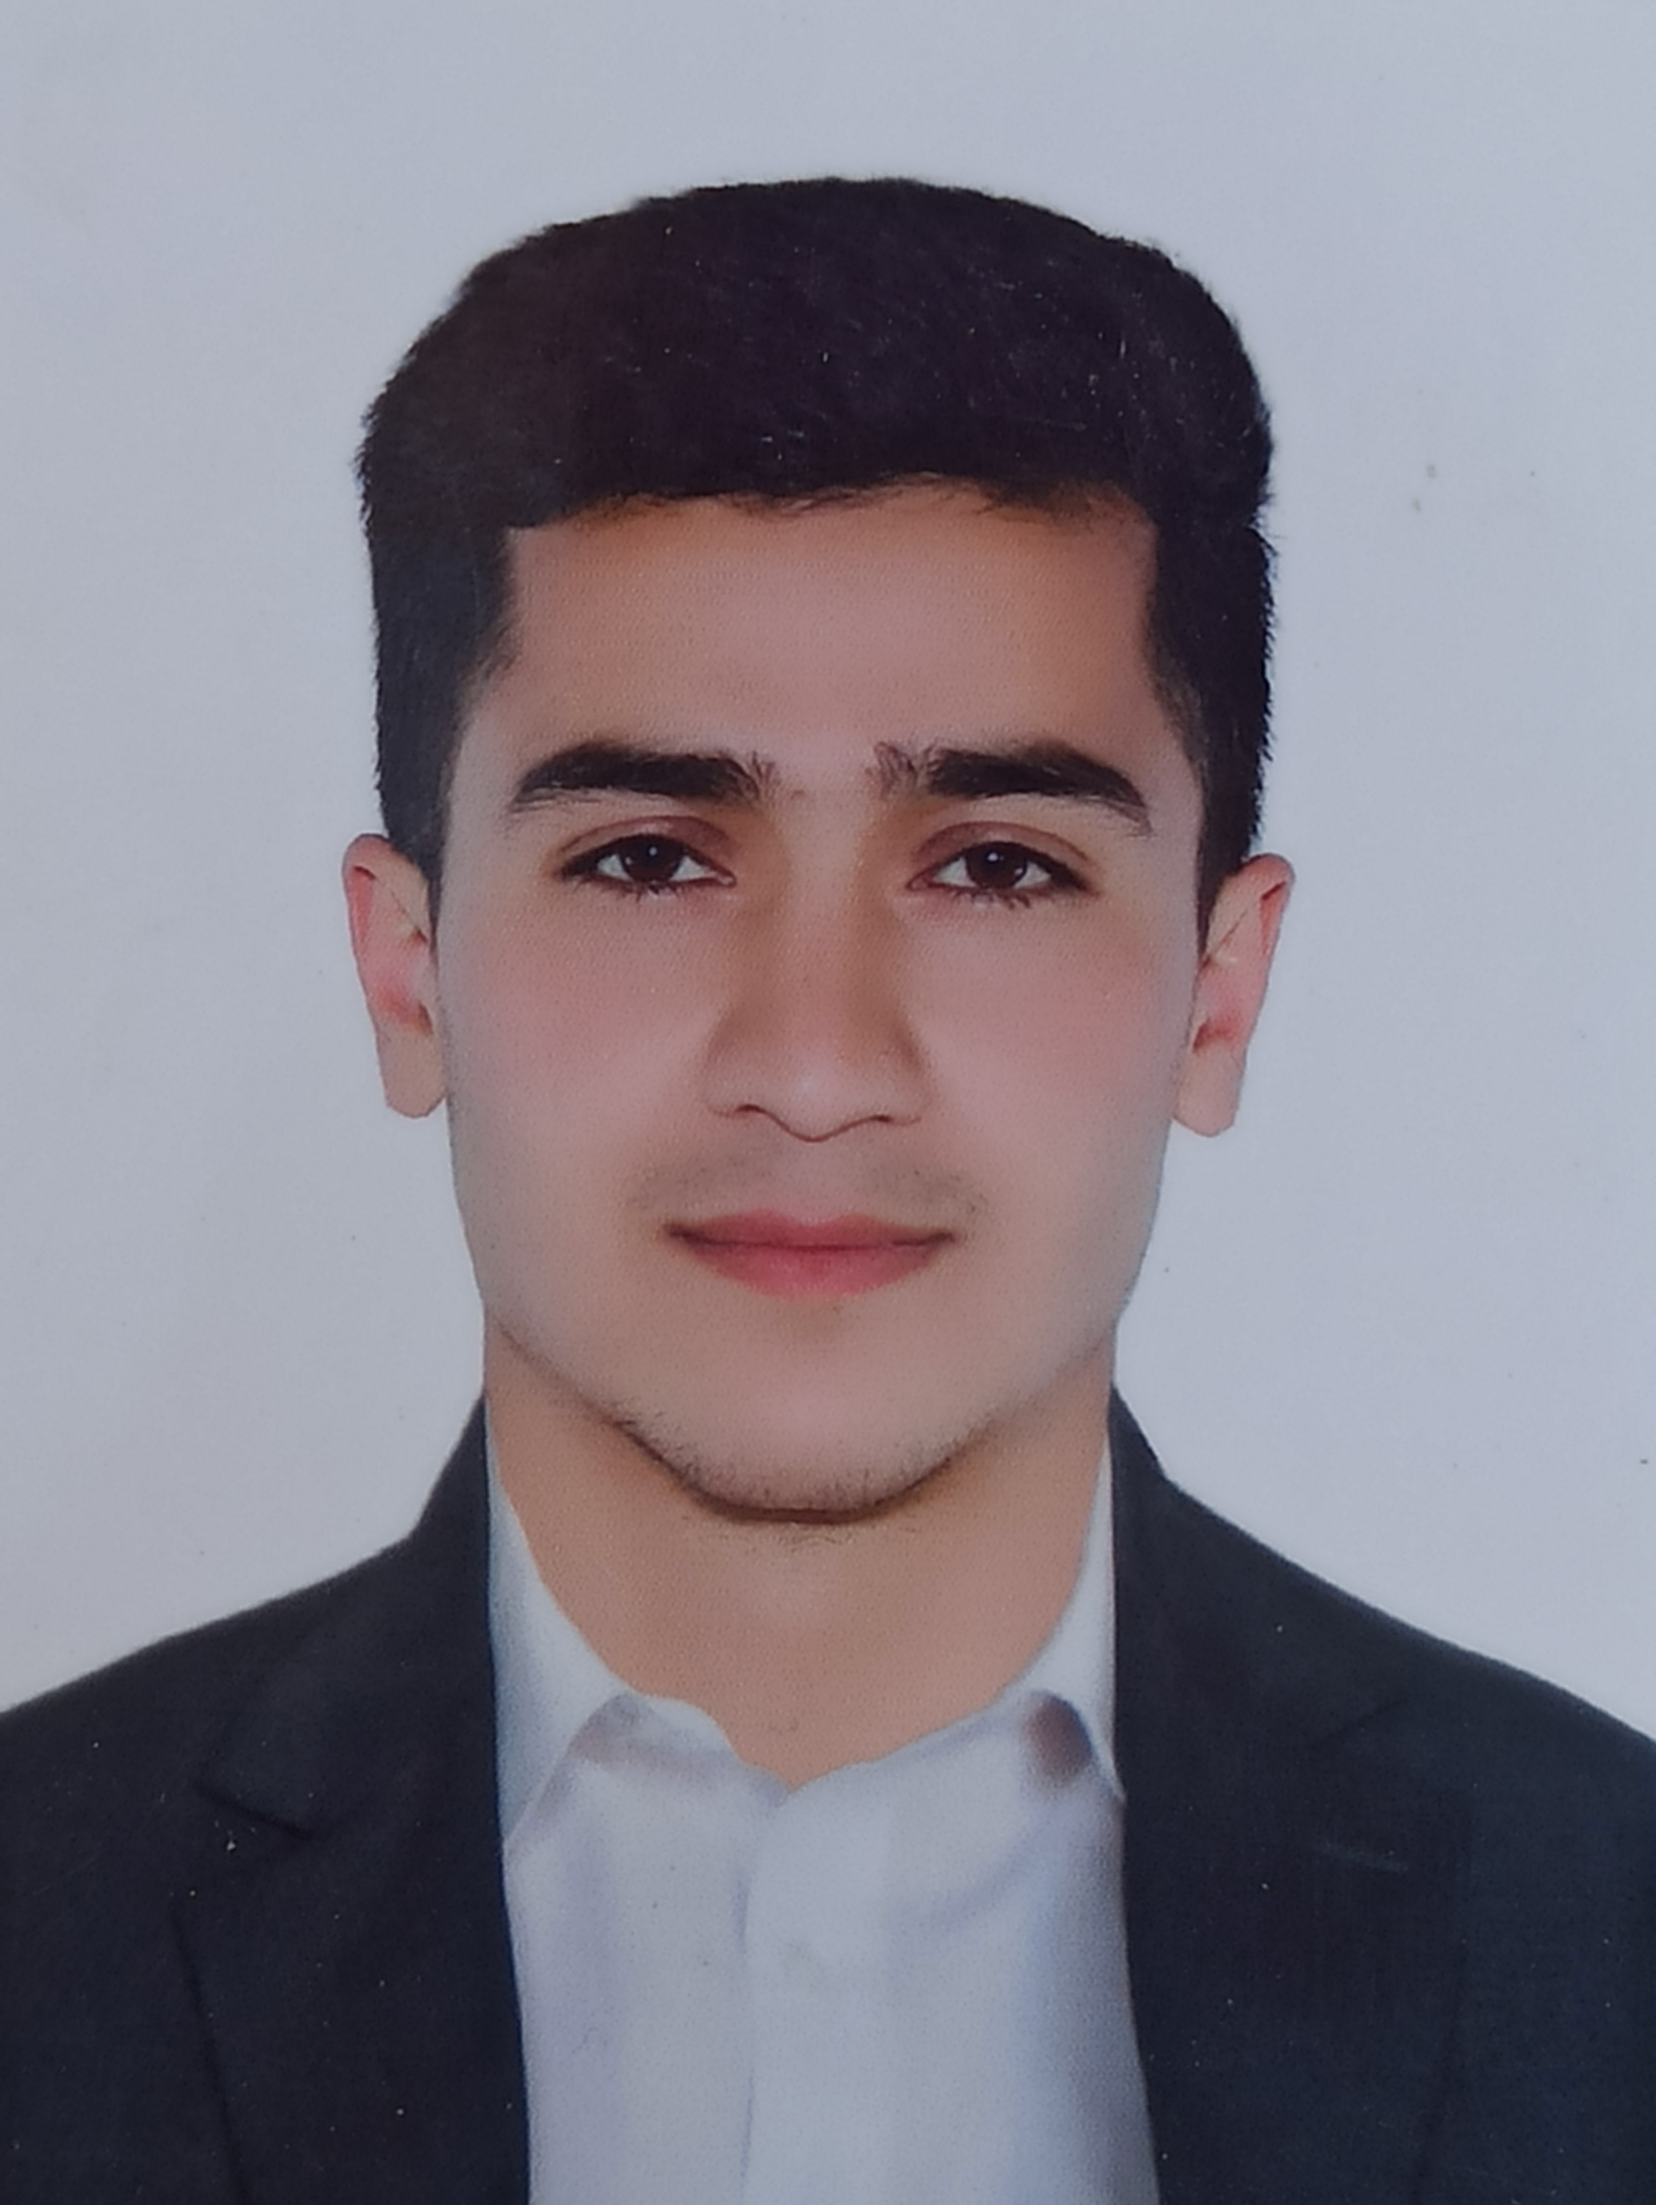
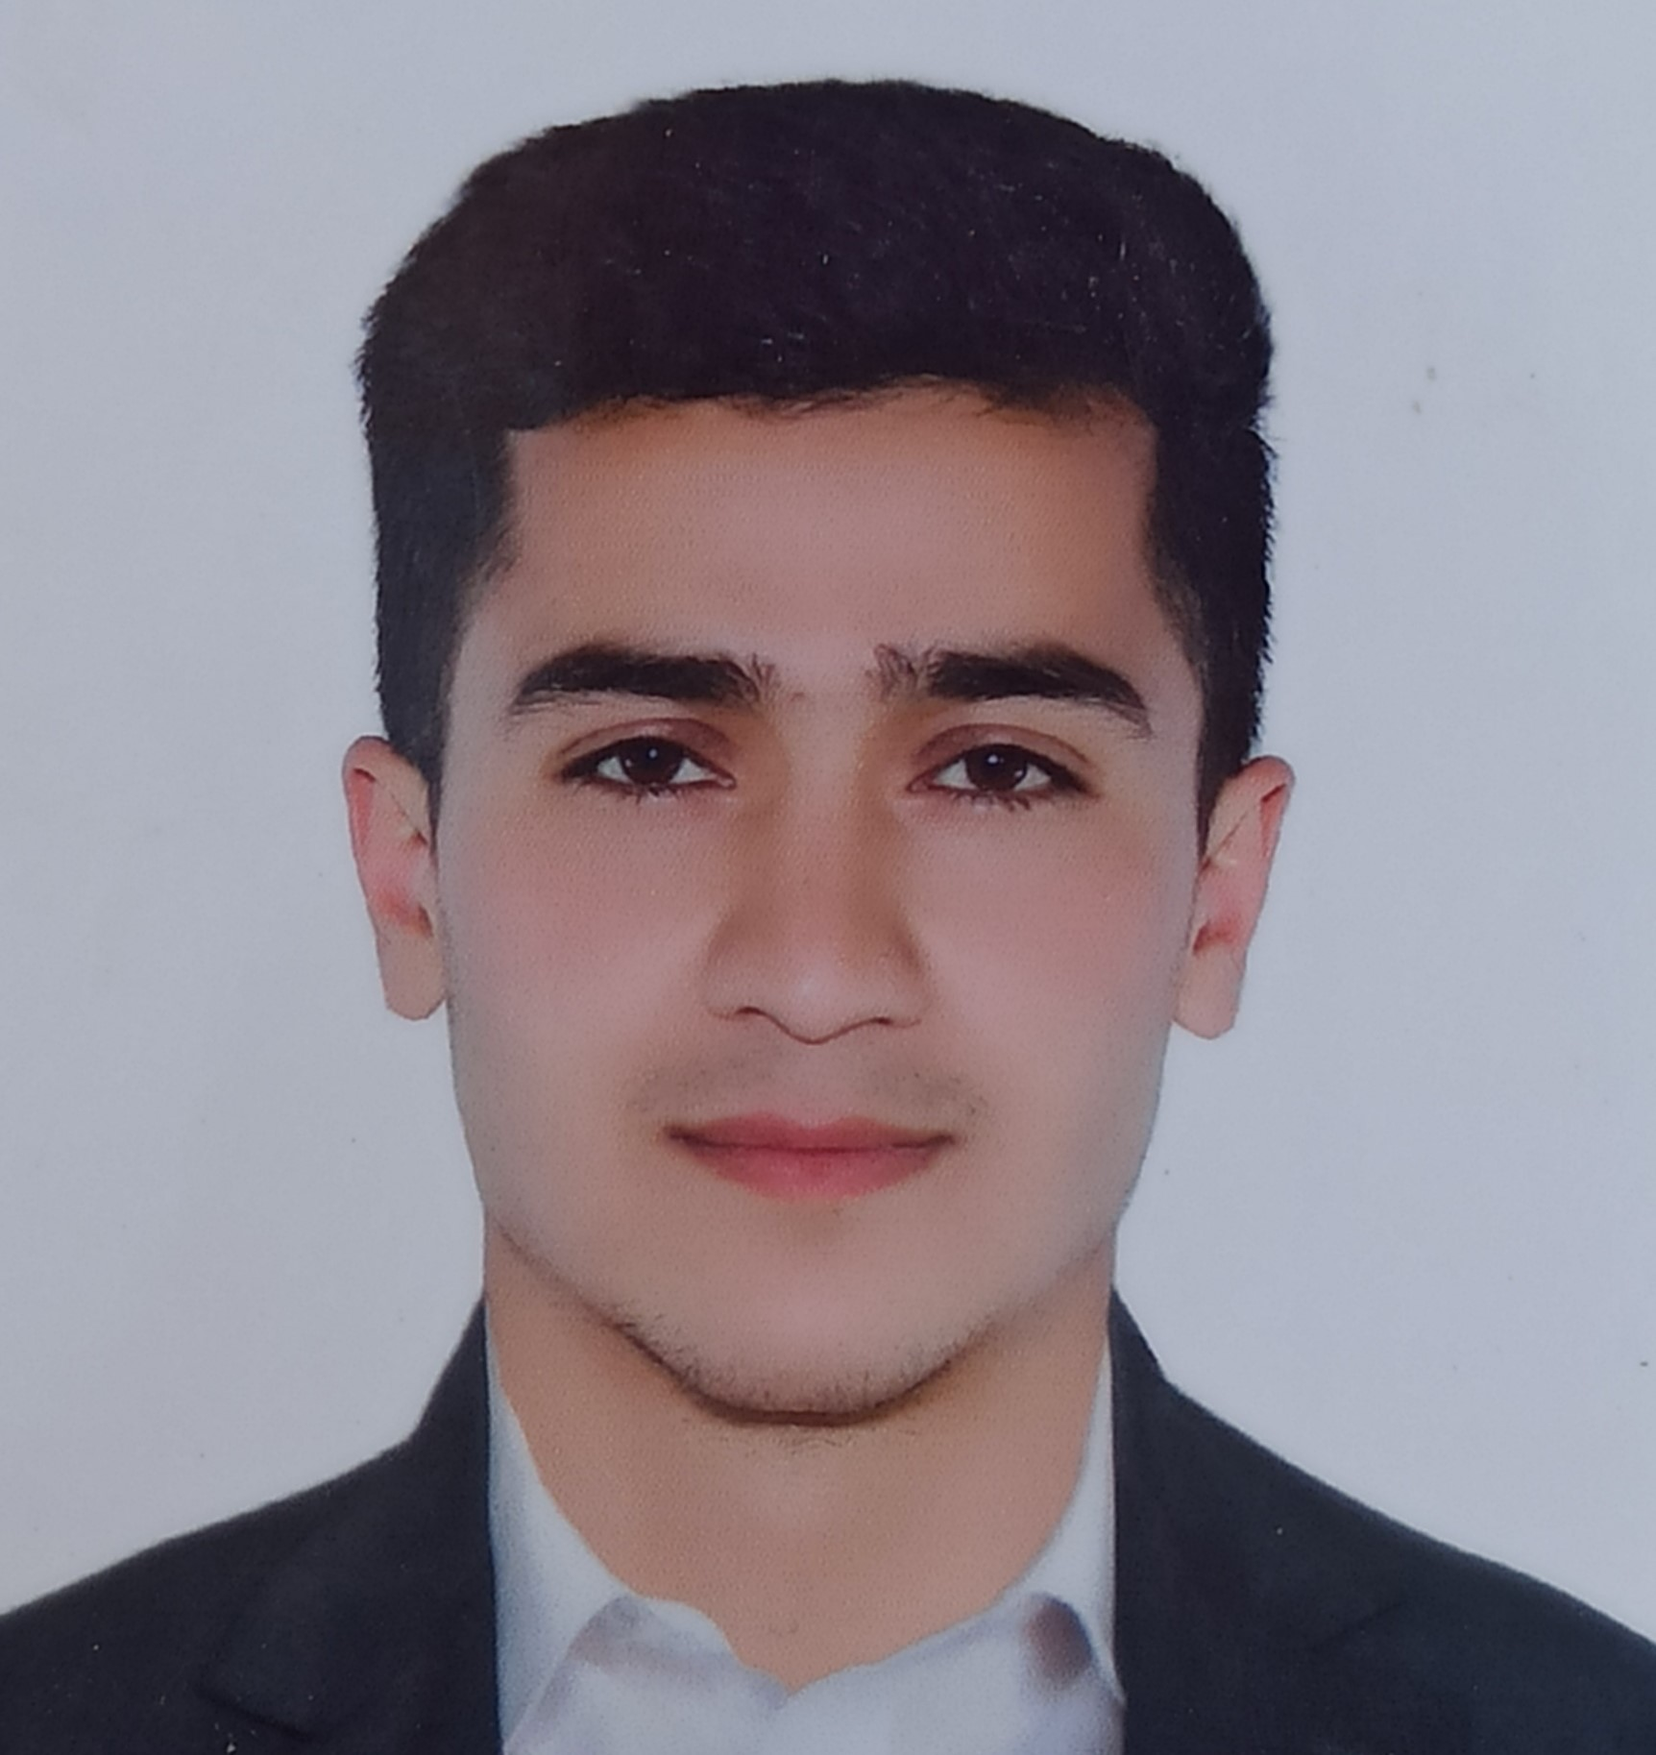
do some refinement

diff --git a/style.css b/style.css
@@ -8,6 +8,7 @@ body {
 	width: 1440px;
 	margin: auto;
 }
+
 .header {
 	display: flex;
 	justify-content: center;
@@ -79,29 +80,22 @@ h3 {
 }
 
 .img_div {
-	width: 100%;
-	height: 320px;
-	display: flex;
-	align-items: center;
-	justify-content: center;
-}
-.img_inner_div {
-	height: 82%;
-	width: 70%;
-	border-radius: 50%;
+	border-radius: 100%;
 	overflow: hidden;
 	box-shadow: none;
+	width: 80%;
+	height: 300px;
+	margin: 10px auto;
 }
 
 img {
 	height: 100%;
 	width: 100%;
 	transition: 0.3s;
-	transform: scale(1.1);
 }
 
-.img_inner_div:hover img {
-	transform: scale(1.15);
+img:hover {
+	transform: scale(1.05);
 }
 
 .cell_no {
@@ -249,7 +243,4 @@ a {
 .personal_info tr {
 	display: block;
 	margin-bottom: 10px;
-}
-
-.ontact_info.div {
 }

diff --git a/index.html b/index.html
@@ -15,12 +15,10 @@
 			<div class="container">
 				<article class="sidebar">
 					<div class="img_div">
-						<div class="img_inner_div div mydiv">
-							<img src="fahad fateh.jpg" />
-						</div>
+						<img src="fahad fateh.jpg" />
 					</div>
 
-					<div class="contact_info div">
+					<div class="div contact-info">
 						<h3>Contact Info:</h3>
 
 						<p class="cell_no">Cell No:</p>
